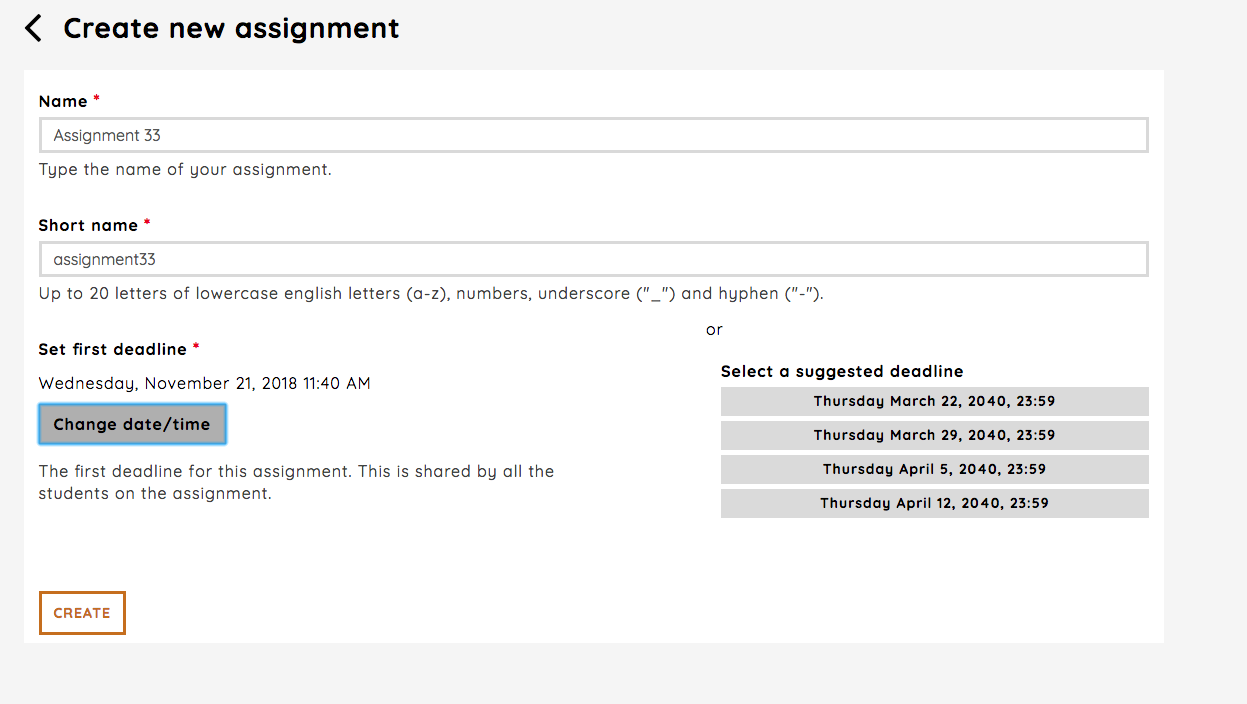
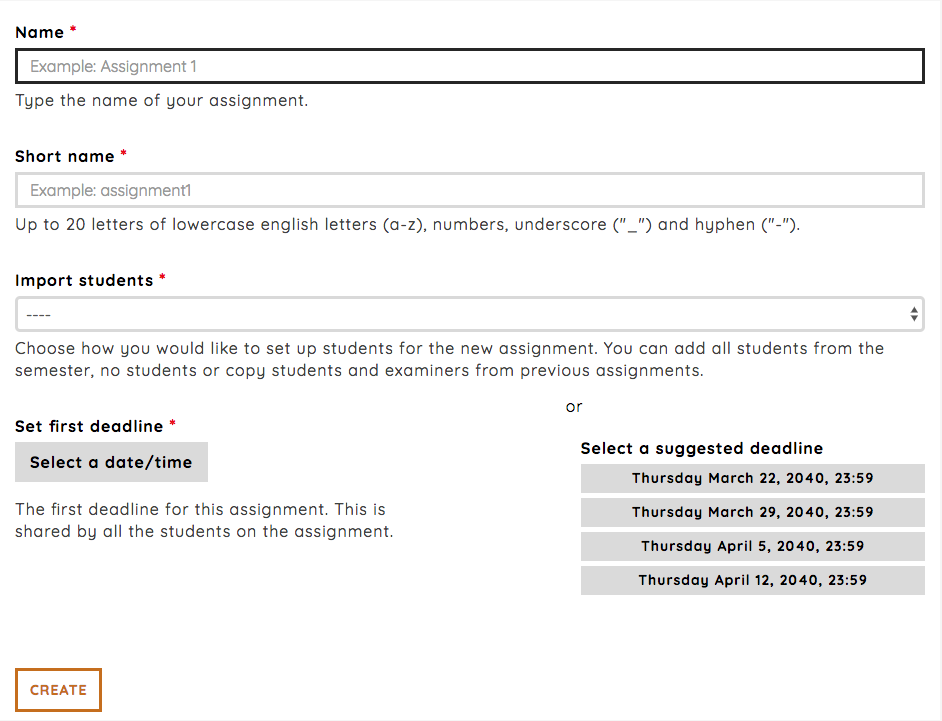
not_for_deploy: Update "Create assignment"-docs

Changed region(s): [[0.0, 0.0312, 0.9851, 0.8438], [0.0, 0.8125, 0.1231, 1.0]]

diff --git a/not_for_deploy/docs/user/admin/assignment/admin_create_assignment.rst b/not_for_deploy/docs/user/admin/assignment/admin_create_assignment.rst
@@ -17,14 +17,28 @@ by using the `Select a date/time`. You can also use one of the suggested deadlin
 .. image:: images/admin-create-assignment-page.png
 
 
+Adding students to the new assignment
+#####################################
+
+We provide a few shortcuts for adding students to the assignment. You can add all students on the semester,
+no students or select an assignment you would like copy students from.
+
+.. image:: images/admin-create-assignment-page-import-students.png
+
+
+From each of the previous assignments, you have two options:
+
+ - **Copy all students** will copy all students from the selected assignment, and keep the projectgroup and
+   examiner setup.
+ - **Copy students with passing grade** will copy all students from the selected assignment with a passing grade, and
+   keep the projectgroup and examiner setup.
+
+
 .. _defaults_new_assignment:
 
 Defaults for a new assignment
 #############################
 The following are configured as a default:
- - All active students in the course in the semester are added to the assignment
- - All students added to the semester are organized in a project group
- - No examiners are connected with a student or group
  - The new assignment will be published 6 hours after creation
  - Grading is passed or failed
  - Anonymization is off
